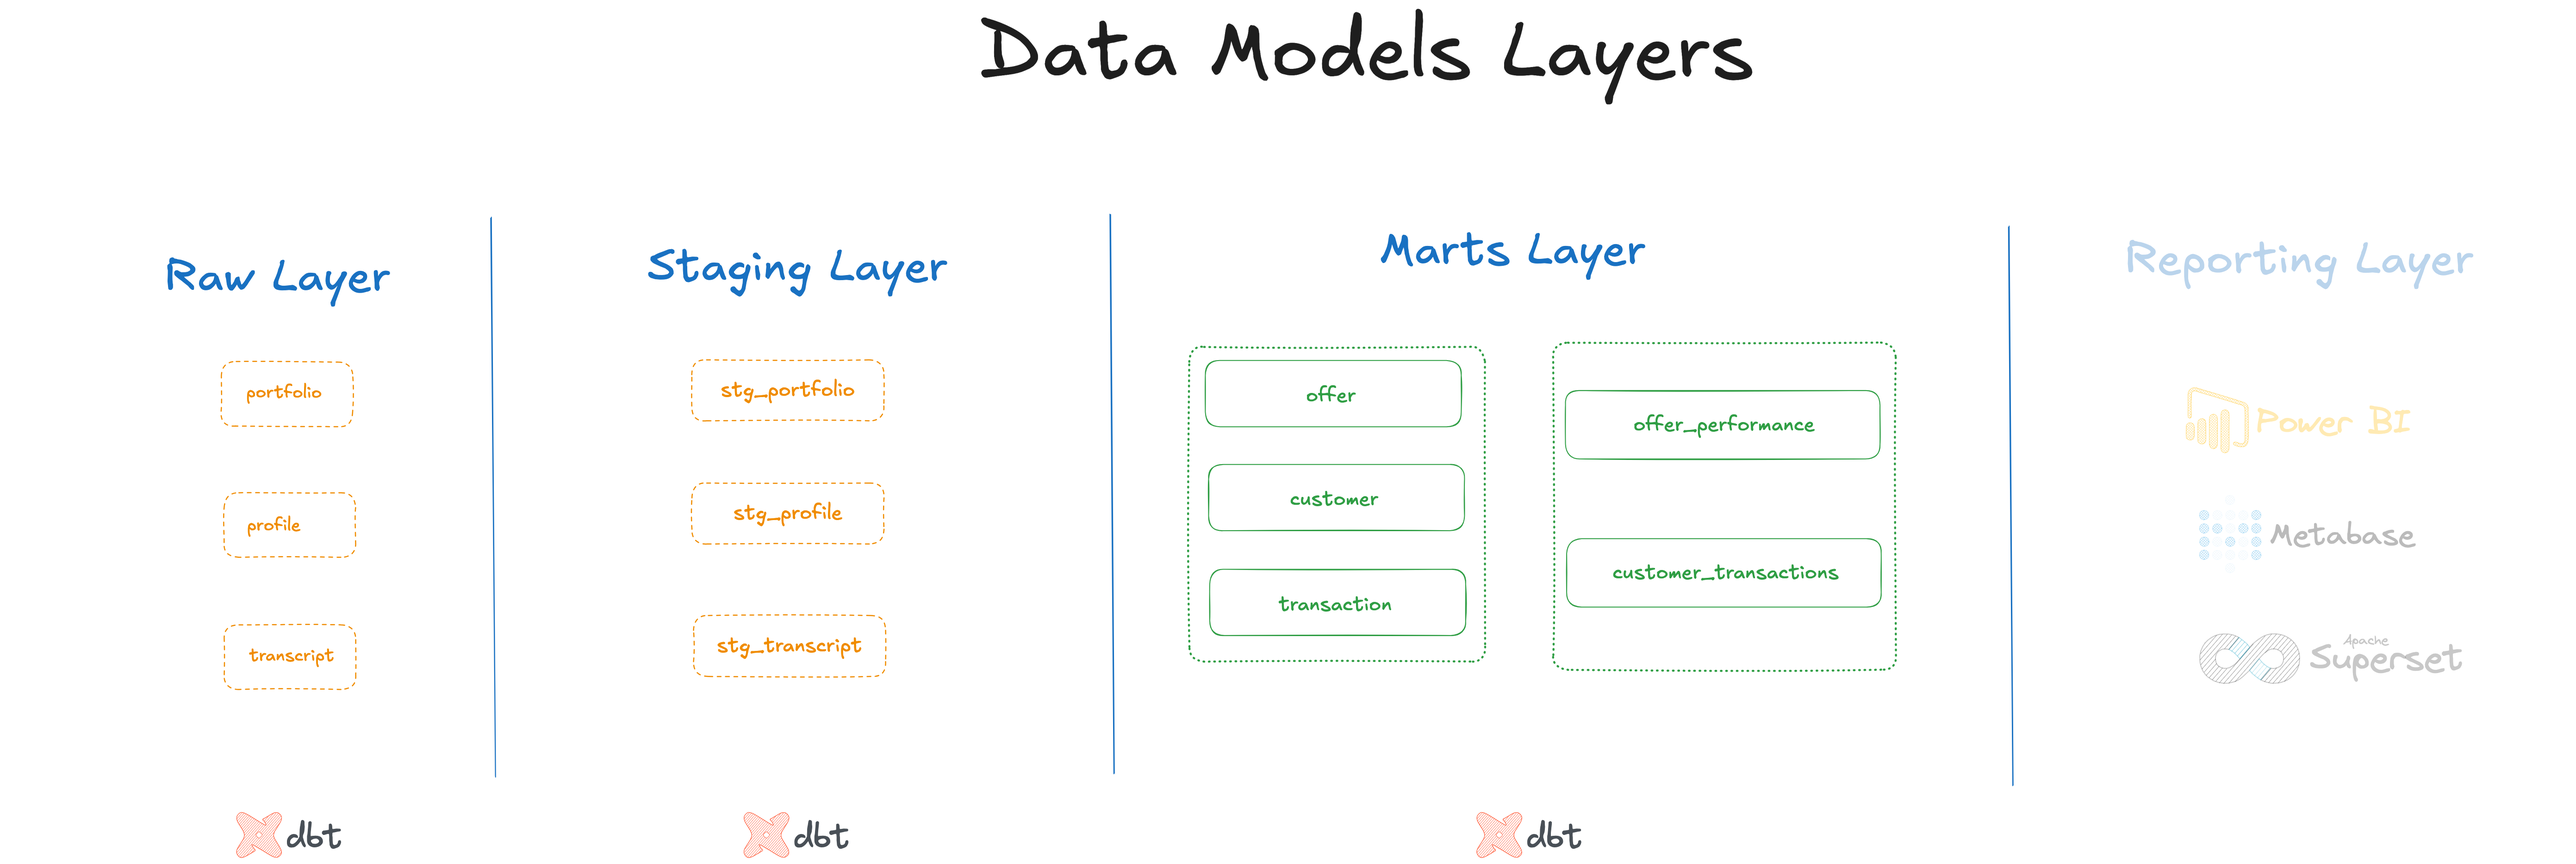
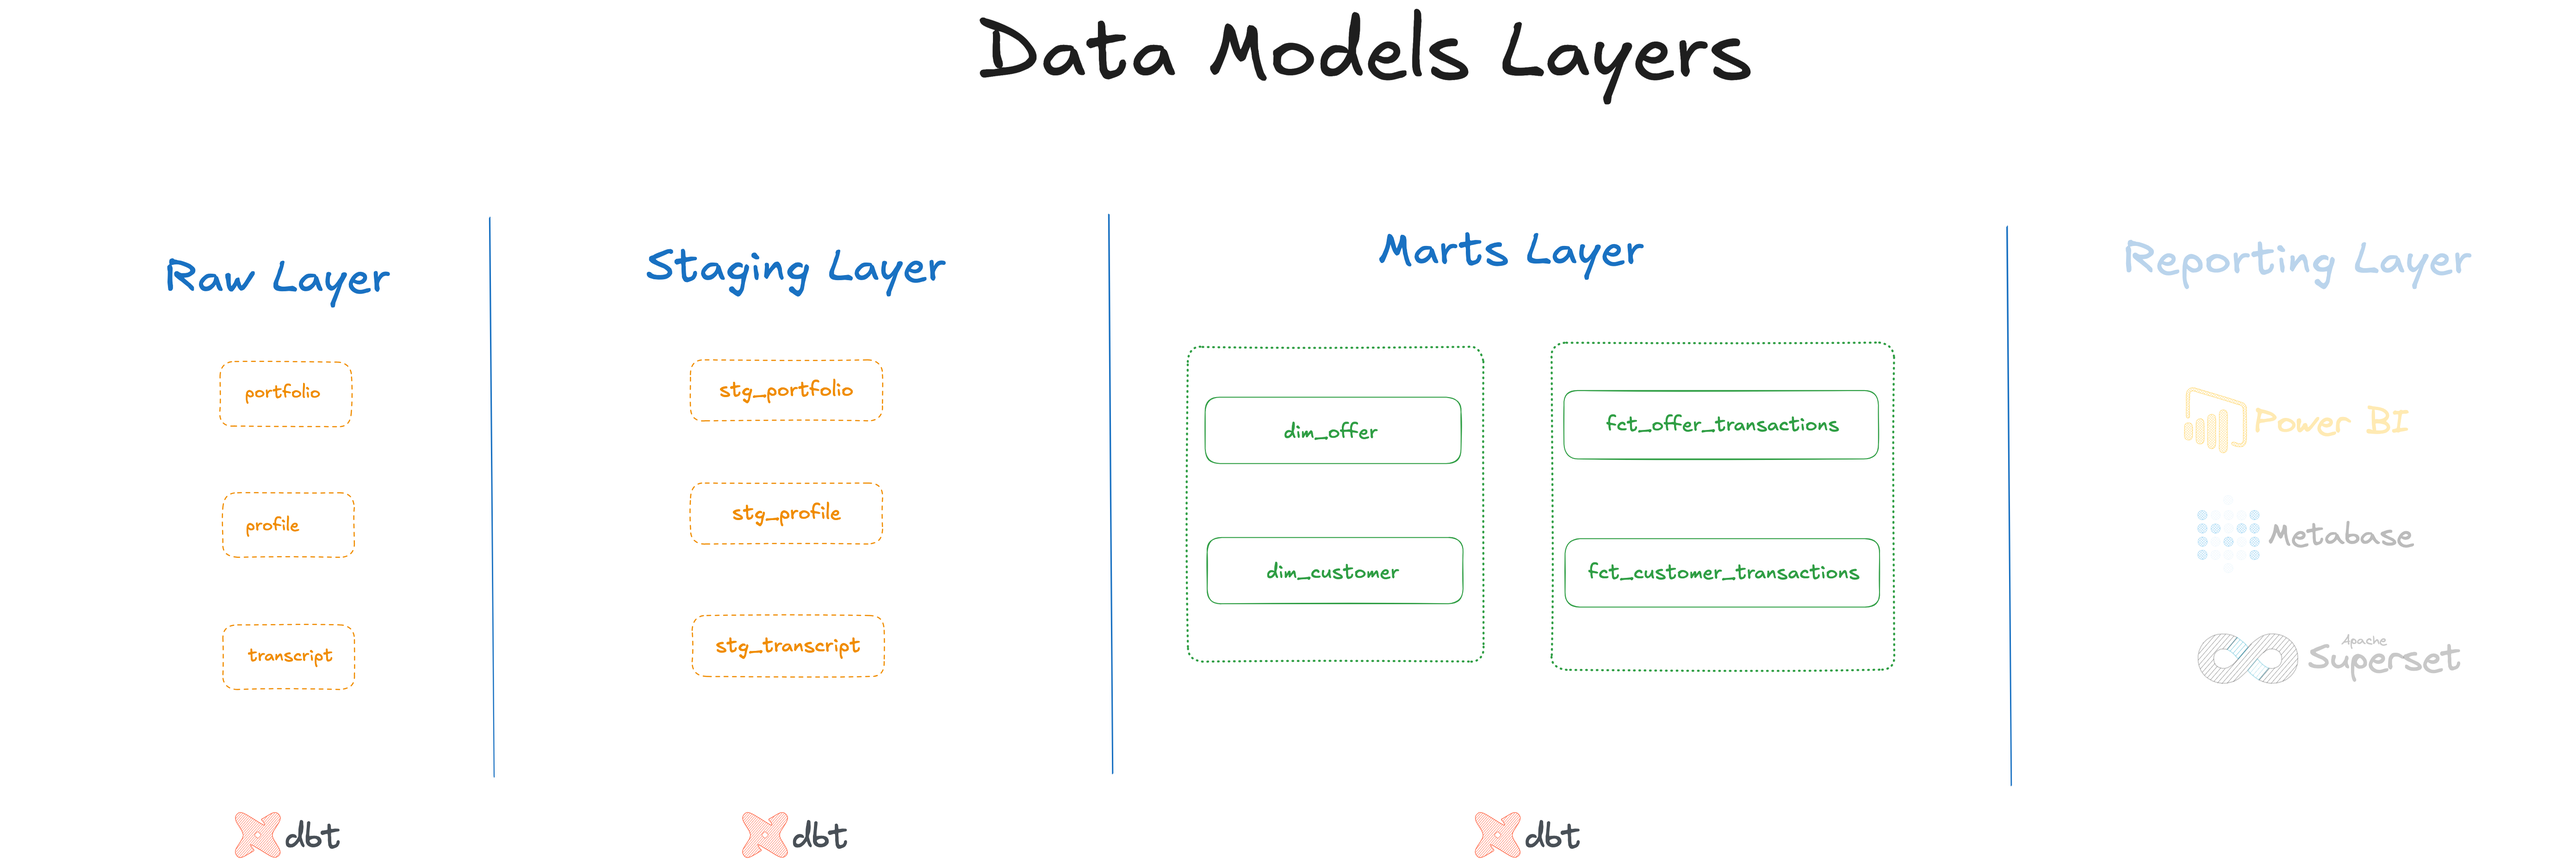
Update README

diff --git a/starbucks_dw/README.md b/starbucks_dw/README.md
@@ -35,7 +35,7 @@ Potential business questions:
 ## Conceptual Model
 
 The following image shows the conceptual model of the Starbucks Customer data. Each box represents a business's entity on the Starbucks's business processes. The
-business process events represented on three datasets provided are: **transaction** and **promotional offer**.
+business process events represented on the three datasets provided are: **transaction** and **promotional offer**.
 
 ![Conceptual Model](../img/conceptual-model.png)
 
@@ -46,7 +46,7 @@ Entities which provide context to the **business process event**: (*who*, *what*
 
 Entites which aggregate the context and measures of a **business process event**:
 - **customer_transactions**
-- **offer_performance**
+- **offer_transactions**
 
 ## Data Models Layers
 The following diagram shows how it will look like our final data models, splited in different layers:
